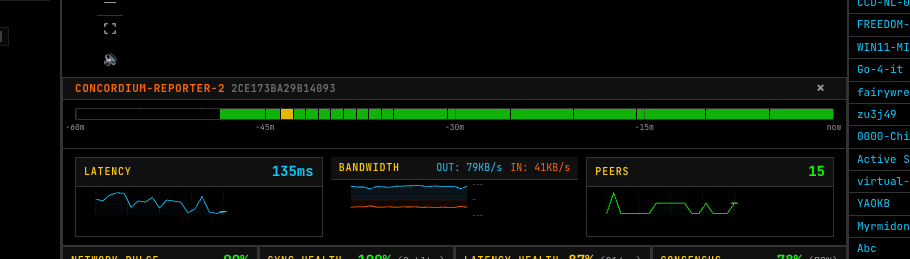
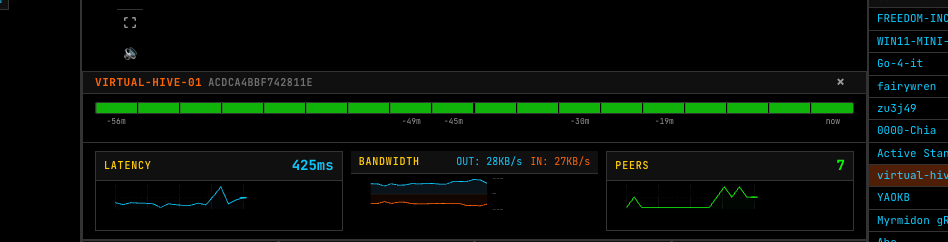
Simplify timeline labels to just start (-Xm) and end (now)

diff --git a/src/components/dashboard/HealthTimeline.tsx b/src/components/dashboard/HealthTimeline.tsx
@@ -35,20 +35,12 @@ export function HealthTimeline({
   const oldest = data.length > 0 ? data[0].timestamp : now;
   const actualSpanMinutes = Math.round((now - oldest) / 60000);
 
-  // Generate time markers based on actual data points
-  const markers: { position: number; label: string; showLabel: boolean }[] = [];
-
-  if (data.length > 0) {
-    // Create marker for each data point position
-    data.forEach((d, i) => {
-      const position = (i / data.length) * 100 + (50 / data.length); // center of segment
-      const minutesAgo = Math.round((now - d.timestamp) / 60000);
-      const label = minutesAgo <= 1 ? 'now' : `-${minutesAgo}m`;
-      // Show label every ~15 minutes or at edges
-      const showLabel = i === 0 || i === data.length - 1 || minutesAgo % 15 < intervalMinutes;
-      markers.push({ position, label, showLabel });
-    });
-  }
+  // Simple markers: just start and end
+  const startLabel = actualSpanMinutes > 0 ? `-${actualSpanMinutes}m` : '';
+  const markers = [
+    { position: 0, label: startLabel },
+    { position: 100, label: 'now' },
+  ];
 
   // Each data point gets equal width, filling the entire bar
   // Rightmost = most recent (now), leftmost = oldest
@@ -118,32 +110,21 @@ export function HealthTimeline({
         ))}
       </div>
 
-      {/* Time labels */}
+      {/* Time labels - just start and end */}
       {showLabels && (
         <div
           className="health-timeline-labels"
           style={{
-            position: 'relative',
-            height: '16px',
+            display: 'flex',
+            justifyContent: 'space-between',
             marginTop: '2px',
             fontSize: '8px',
             fontFamily: 'var(--font-mono)',
             color: 'var(--bb-gray)',
           }}
         >
-          {markers.filter(m => m.showLabel).map((m, i) => (
-            <span
-              key={i}
-              style={{
-                position: 'absolute',
-                left: `${m.position}%`,
-                transform: 'translateX(-50%)',
-                whiteSpace: 'nowrap',
-              }}
-            >
-              {m.label}
-            </span>
-          ))}
+          <span>{markers[0].label}</span>
+          <span>{markers[1].label}</span>
         </div>
       )}
     </div>
